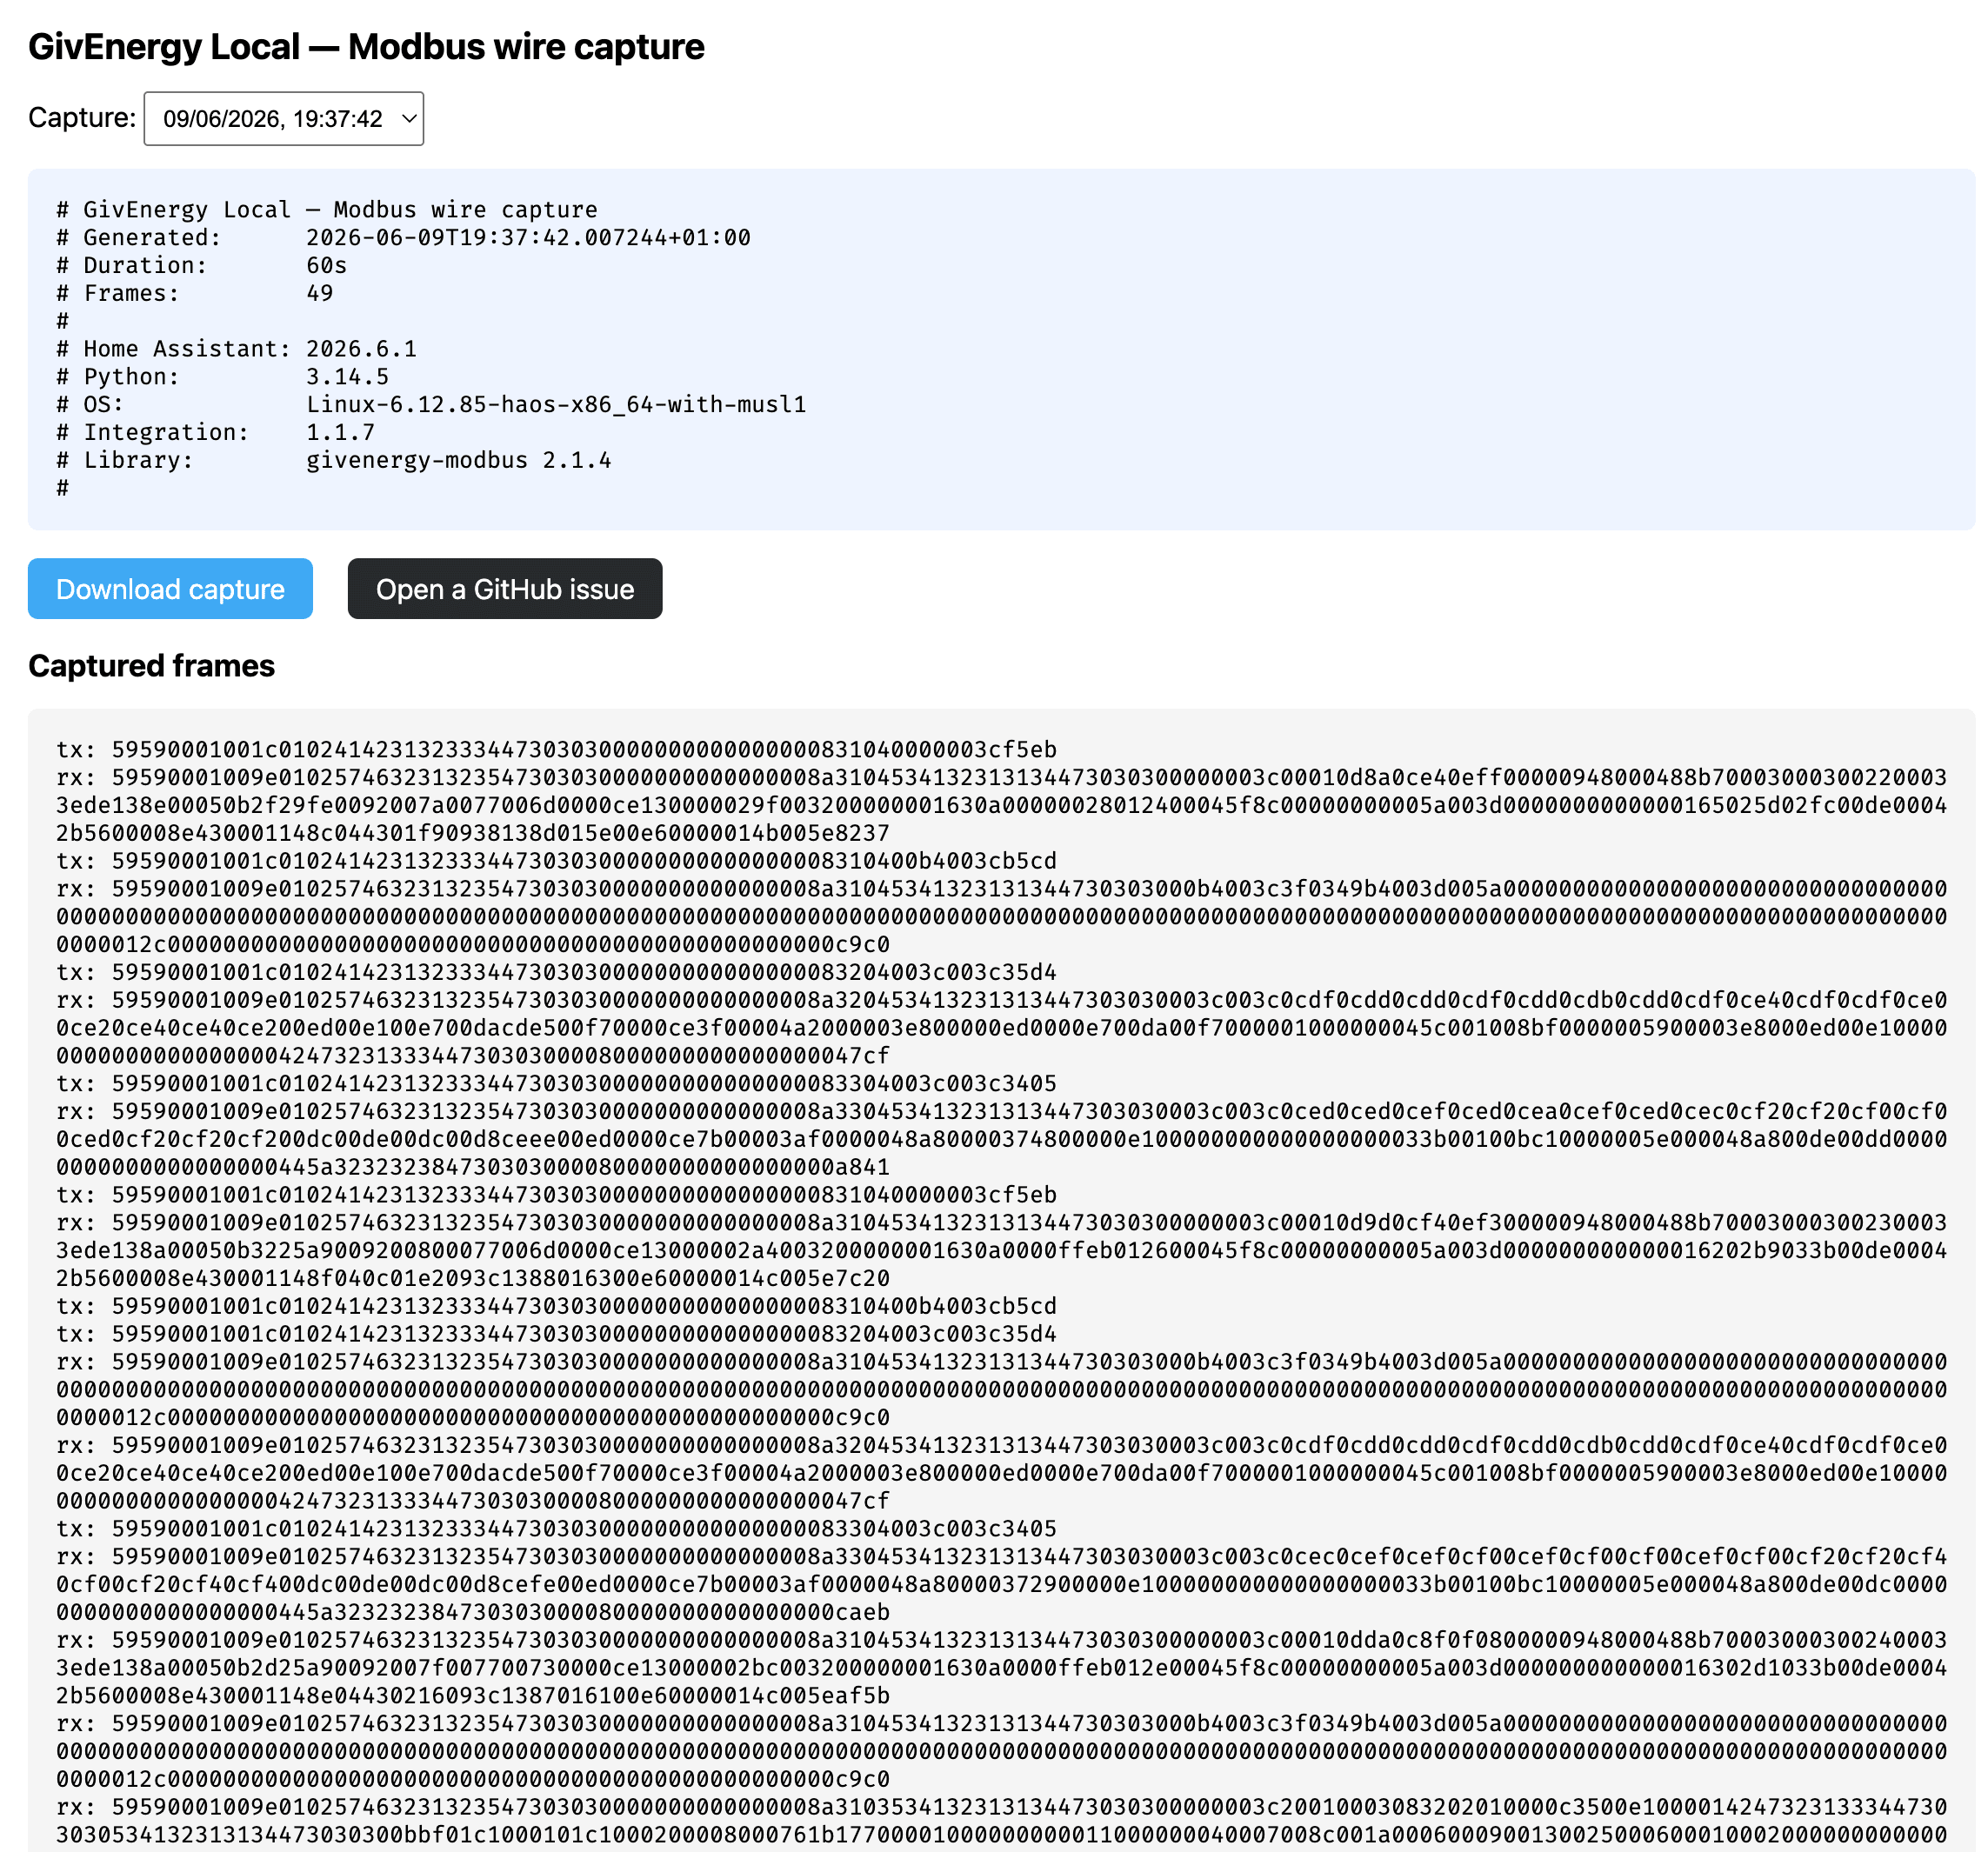
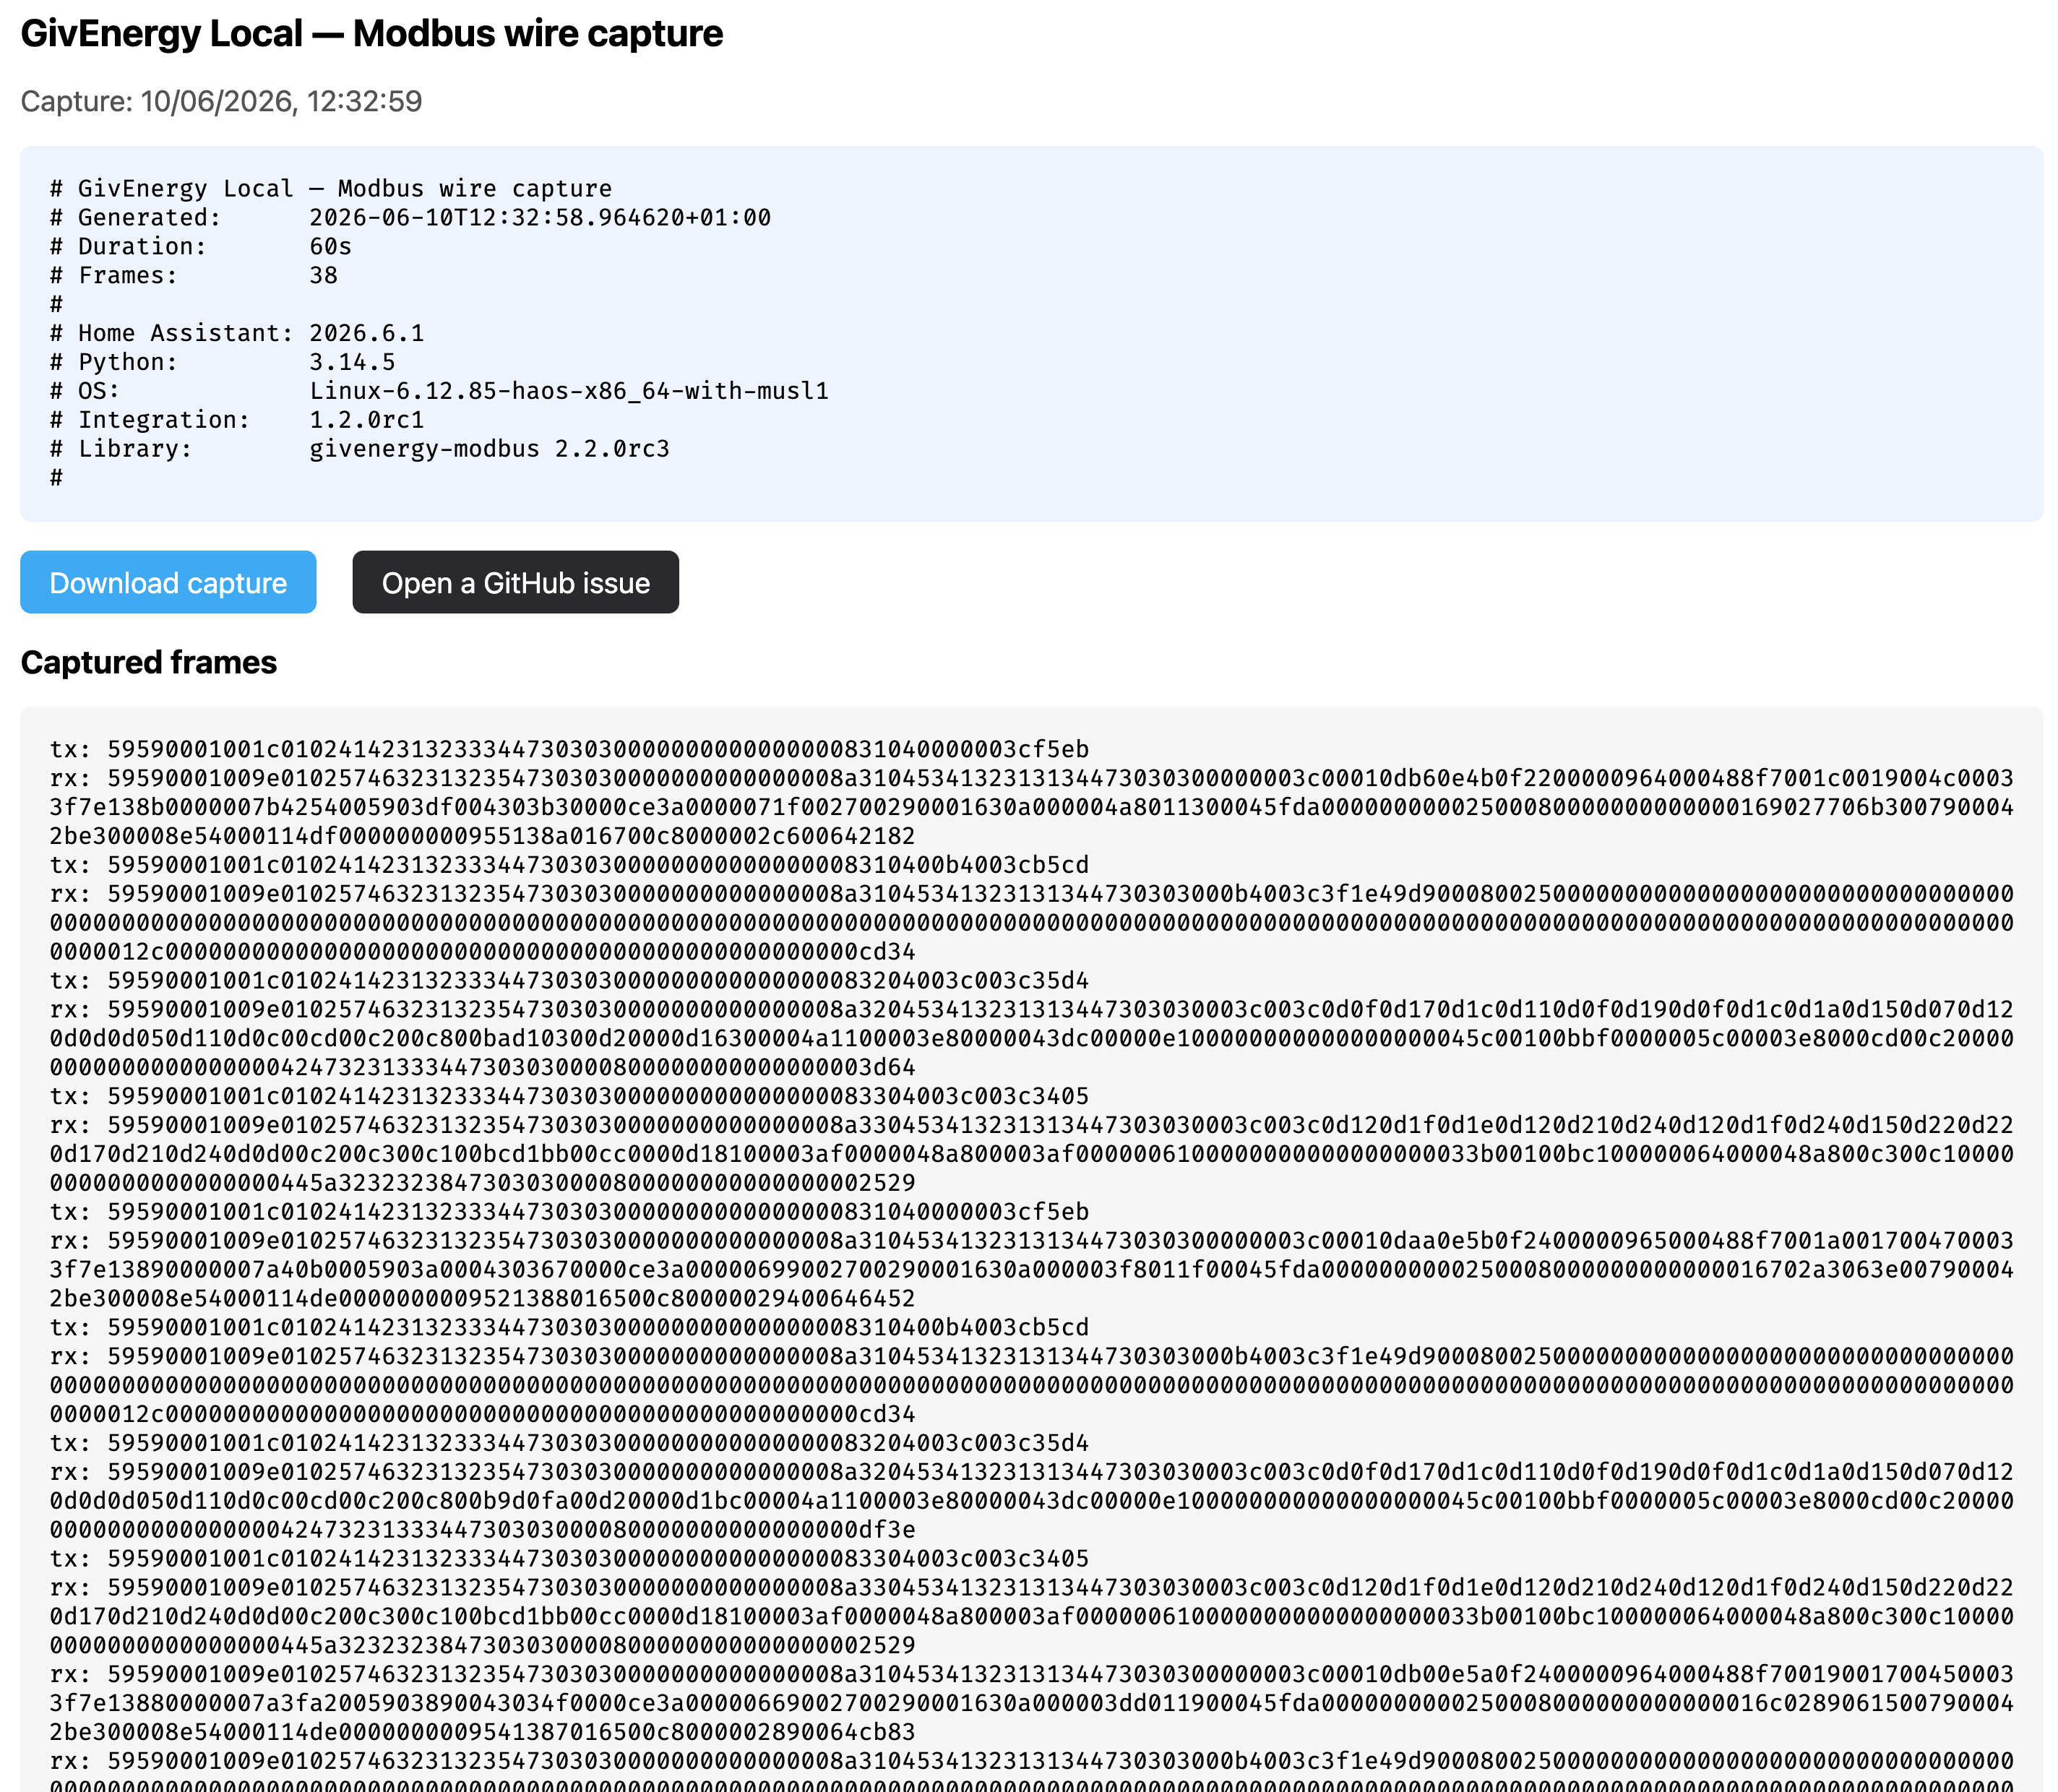
fix(capture): tighten capture access to admins + signed links; write files 0600 (#150)
Implements both defence-in-depth observations from the 2026-06-10 security review. Closes #149.

- Capture views now require an admin bearer token OR one of the integration's signed links; links are signed as HA's content user so the signer is deterministic, and the views compare the request's resolved refresh-token id against it (fails closed when unset — no None == None match).
- The landing page renders only the requested capture: the multi-capture switcher is removed, so a single notification link can't be escalated into enumerating the whole history.
- Capture files written 0600 (fchmod on the descriptor so an overwrite can't keep a broader mode); capture directory created 0700.

Docs and screenshots updated to the dropdown-free landing page. Each behaviour has a regression test.

Pull request: fix(capture): tighten capture access to admins + signed links; write files 0600
## What this does

Implements both defence-in-depth observations from the [2026-06-10 security review](https://github.com/dewet22/givenergy-hass/blob/main/docs/security-review-2026-06-10.md). Closes #149.

### Capture-view access: admin or signed link

`requires_auth = True` admits any authenticated HA user, and capture filenames are epoch-based (guessable within a narrow window), so a non-admin user could enumerate and download captures. The views now additionally require the caller to be an **admin**, or to have arrived via one of the integration's **signed links**.

The design detail worth reviewing: the notification link is signed inside a service handler, where `async_sign_path`'s fallback resolves to HA's **content user** — a read-only system user, so a naive `is_admin` gate would break the main flow. Instead, all capture links are now signed explicitly as the content user (`use_content_user=True`), and the views compare the request's resolved refresh-token id against that token. Because the auth middleware resolves a bearer-authenticated request to the *bearer's* token id (even when a junk `authSig` is appended), query-param sniffing is avoided and that bypass is closed — there's a regression test for it.

### Capture files written 0600
[…]

Changed region(s): [[0.0, 0.0, 0.9939, 1.0]]

diff --git a/custom_components/givenergy_local/http.py b/custom_components/givenergy_local/http.py
@@ -11,11 +11,21 @@ Auth note: HA's HTTP stack authenticates via a bearer header or a signed-request
 navigation from a notification would otherwise 401. Every link the user follows
 (the notification → landing URL, each dropdown entry, the download link) is
 therefore individually signed via :func:`async_sign_path` with a ~1h expiry.
+
+Access model (security review 2026-06-10): ``requires_auth = True`` alone admits
+*any* authenticated HA user, and capture filenames are epoch-guessable, so the
+views additionally require the caller to be an admin OR to have arrived via one
+of our signed links. All links are signed as HA's system "content user"
+(``use_content_user=True``), so a signed request resolves to that user's refresh
+token — :func:`_authorized` compares the request's resolved token id against it,
+which a junk ``authSig`` bolted onto a non-admin bearer request can't satisfy
+(the middleware resolves such a request to the bearer's own token).
 """
 
 from __future__ import annotations
 
 import html
+import os
 import re
 from datetime import timedelta
 from pathlib import Path
@@ -23,7 +33,8 @@ from urllib.parse import urlencode
 
 from aiohttp import web
 from homeassistant.components.http import HomeAssistantView  # type: ignore[attr-defined]
-from homeassistant.components.http.auth import async_sign_path
+from homeassistant.components.http.auth import STORAGE_KEY, async_sign_path
+from homeassistant.components.http.const import KEY_HASS_REFRESH_TOKEN_ID, KEY_HASS_USER
 from homeassistant.core import HomeAssistant
 
 from .const import DOMAIN
@@ -58,6 +69,56 @@ def capture_dir(hass: HomeAssistant) -> Path:
     return Path(hass.config.path(CAPTURE_DIR_NAME))
 
 
+def _sign(hass: HomeAssistant, path: str) -> str:
+    """Sign a capture path as the content user, so the signer is deterministic.
+
+    Signing inside a request handler would otherwise bind the link to the
+    *viewing* user's refresh token (whatever the ambient context is), which
+    `_authorized` couldn't distinguish from an arbitrary bearer. The content
+    user is HA's system identity for exactly this serve-signed-content case.
+    """
+    return async_sign_path(hass, path, _SIGNED_URL_TTL, use_content_user=True)
+
+
+def _authorized(hass: HomeAssistant, request: web.Request) -> bool:
+    """Admins, or requests that arrived via one of our signed links.
+
+    `requires_auth = True` already rejected anonymous callers; this tightens
+    the rest (security review 2026-06-10): a non-admin bearer token must not
+    be able to enumerate epoch-named captures. Signed links resolve to the
+    content user's refresh token — comparing the request's resolved token id
+    against it (rather than sniffing for an `authSig` query param) means a
+    junk signature appended to a bearer request still authenticates as the
+    bearer and is rejected here.
+    """
+    user = request.get(KEY_HASS_USER)
+    if user is not None and user.is_admin:
+        return True
+    # Guard both sides against None before comparing: HA sets the content-user
+    # token at http setup and token-less auth paths are admin-only today, so
+    # None == None isn't currently reachable — but a future auth path that
+    # leaves either unset must fail closed, not match on None.
+    token_id = request.get(KEY_HASS_REFRESH_TOKEN_ID)
+    signer_token_id = hass.data.get(STORAGE_KEY)
+    return token_id is not None and token_id == signer_token_id
+
+
+def write_capture(path: Path, content: str) -> None:
+    """Write a capture file readable by the HA user only (0600).
+
+    Capture contents are already redacted, but there's no reason to leave them
+    broader than needed on a multi-user host (security review 2026-06-10).
+    Runs in an executor — blocking I/O.
+    """
+    fd = os.open(path, os.O_WRONLY | os.O_CREAT | os.O_TRUNC, 0o600)
+    with os.fdopen(fd, "w") as handle:
+        # O_CREAT's mode applies only when the file is created; an overwrite
+        # (same-second epoch collision) would keep the existing file's broader
+        # mode, so enforce it on the open descriptor regardless.
+        os.fchmod(fd, 0o600)
+        handle.write(content)
+
+
 def landing_path(filename: str) -> str:
     return f"/api/{DOMAIN}/capture/{filename}"
 
@@ -83,21 +144,8 @@ def _split_header(content: str) -> tuple[str, str]:
     return "\n".join(lines[:cut]), "\n".join(lines[cut:])
 
 
-async def _list_captures(hass: HomeAssistant) -> list[str]:
-    """Capture filenames, newest first."""
-    directory = capture_dir(hass)
-
-    def _scan() -> list[str]:
-        if not directory.is_dir():
-            return []
-        names = [p.name for p in directory.iterdir() if CAPTURE_FILENAME_RE.match(p.name)]
-        return sorted(names, key=_epoch_from_filename, reverse=True)
-
-    return await hass.async_add_executor_job(_scan)
-
-
 class CaptureLandingView(HomeAssistantView):
-    """Landing page for a single capture: inspect, switch, download, file issue."""
+    """Landing page for a single capture: inspect, download, file issue."""
 
     url = "/api/" + DOMAIN + "/capture/{filename}"
     name = f"api:{DOMAIN}:capture"
@@ -107,6 +155,8 @@ class CaptureLandingView(HomeAssistantView):
         self.hass = hass
 
     async def get(self, request: web.Request, filename: str) -> web.StreamResponse:
+        if not _authorized(self.hass, request):
+            return web.Response(status=403)
         if not CAPTURE_FILENAME_RE.match(filename):
             return web.Response(status=404)
         hass = self.hass
@@ -115,20 +165,13 @@ class CaptureLandingView(HomeAssistantView):
         if content is None:
             return web.Response(status=404)
 
-        captures = await _list_captures(hass)
+        # The page shows exactly the one capture the caller was granted. A
+        # signed link is a path-bound capability for a single file, so there's
+        # no multi-capture switcher to mint (which would escalate one link into
+        # enumerate-everything) — each capture is reached via its own
+        # notification link.
         header, body = _split_header(content)
-
-        options = []
-        for name in captures:
-            signed = async_sign_path(hass, landing_path(name), _SIGNED_URL_TTL)
-            selected = " selected" if name == filename else ""
-            options.append(
-                f'<option value="{html.escape(signed, quote=True)}" '
-                f'data-epoch="{_epoch_from_filename(name)}"{selected}>'
-                f"{html.escape(name)}</option>"
-            )
-
-        download_url = async_sign_path(hass, download_path(filename), _SIGNED_URL_TTL)
+        download_url = _sign(hass, download_path(filename))
         github_url = (
             _GITHUB_ISSUE_URL
             + "?"
@@ -136,7 +179,8 @@ class CaptureLandingView(HomeAssistantView):
         )
 
         page = _LANDING_TEMPLATE.format(
-            options="\n".join(options),
+            filename=html.escape(filename),
+            epoch=_epoch_from_filename(filename),
             header=html.escape(header),
             body=html.escape(body),
             download_url=html.escape(download_url, quote=True),
@@ -156,6 +200,8 @@ class CaptureDownloadView(HomeAssistantView):
         self.hass = hass
 
     async def get(self, request: web.Request, filename: str) -> web.StreamResponse:
+        if not _authorized(self.hass, request):
+            return web.Response(status=403)
         if not CAPTURE_FILENAME_RE.match(filename):
             return web.Response(status=404)
         hass = self.hass
@@ -184,7 +230,7 @@ def build_capture_notification_url(hass: HomeAssistant, filename: str) -> str:
     whatever origin the user is actually on — works correctly whether HA is
     accessed directly or via a reverse proxy.
     """
-    return async_sign_path(hass, landing_path(filename), _SIGNED_URL_TTL)
+    return _sign(hass, landing_path(filename))
 
 
 _LANDING_TEMPLATE = """\
@@ -204,19 +250,13 @@ _LANDING_TEMPLATE = """\
                 background: #03a9f4; color: #fff; text-decoration: none;
                 border-radius: 6px; }}
   .actions a.github {{ background: #24292f; }}
-  select {{ padding: 0.4rem; }}
+  .capture {{ color: #555; }}
 </style>
 </head>
 <body>
 <h1>GivEnergy Local — Modbus wire capture</h1>
 
-<form>
-  <label>Capture:
-    <select id="capture-select" onchange="window.location = this.value;">
-{options}
-    </select>
-  </label>
-</form>
+<p class="capture">Capture: <span id="capture-when" data-epoch="{epoch}">{filename}</span></p>
 
 <pre class="env">{header}</pre>
 
@@ -229,11 +269,10 @@ _LANDING_TEMPLATE = """\
 <pre>{body}</pre>
 
 <script>
-  // Render each capture's epoch in the viewer's locale; the value stays a signed URL.
-  for (const opt of document.querySelectorAll('#capture-select option')) {{
-    const epoch = Number(opt.dataset.epoch);
-    if (epoch) opt.textContent = new Date(epoch * 1000).toLocaleString();
-  }}
+  // Render the capture's epoch in the viewer's locale (falls back to the filename).
+  const when = document.getElementById('capture-when');
+  const epoch = Number(when.dataset.epoch);
+  if (epoch) when.textContent = new Date(epoch * 1000).toLocaleString();
 </script>
 </body>
 </html>

diff --git a/tests/test_capture.py b/tests/test_capture.py
@@ -8,6 +8,8 @@ download; both reject anything outside the strict capture-filename allowlist.
 
 from __future__ import annotations
 
+import re
+
 import pytest
 from homeassistant.setup import async_setup_component
 from homeassistant.util import dt as dt_util
@@ -172,7 +174,7 @@ async def test_landing_view_renders_page(hass, hass_client, captured):
     assert resp.status == 200
     text = await resp.text()
     assert "GivEnergy Local — Modbus wire capture" in text
-    assert captured in text  # dropdown option for this capture
+    assert captured in text  # capture caption names this file
     assert "dead" in text and "beef" in text  # frames embedded inline
     assert "/issues/new" in text  # GitHub link
 
@@ -214,3 +216,113 @@ async def test_unsigned_download_without_auth_is_rejected(hass, hass_client_no_a
     client = await hass_client_no_auth()
     resp = await client.get(f"/api/{DOMAIN}/capture/{captured}/download")
     assert resp.status == 401
+
+
+# ---------------------------------------------------------------------------
+# Access hardening (security review 2026-06-10, issue #149)
+# ---------------------------------------------------------------------------
+
+
+async def test_non_admin_bearer_is_rejected(
+    hass, hass_client, hass_read_only_access_token, captured
+):
+    """A non-admin bearer token must not be able to read captures directly —
+    epoch-based filenames are guessable, so plain `requires_auth` would let any
+    authenticated user enumerate them."""
+    client = await hass_client(hass_read_only_access_token)
+    resp = await client.get(f"/api/{DOMAIN}/capture/{captured}")
+    assert resp.status == 403
+    resp = await client.get(f"/api/{DOMAIN}/capture/{captured}/download")
+    assert resp.status == 403
+
+
+async def test_non_admin_with_junk_authsig_is_rejected(
+    hass, hass_client, hass_read_only_access_token, captured
+):
+    """A junk authSig appended to a non-admin bearer request must not pass the
+    gate — the middleware authenticates via the bearer header, so the request
+    resolves to the bearer's own token, not the content user's."""
+    client = await hass_client(hass_read_only_access_token)
+    resp = await client.get(f"/api/{DOMAIN}/capture/{captured}?authSig=junk")
+    assert resp.status == 403
+
+
+async def test_notification_link_works_without_auth(
+    hass, hass_client_no_auth, mock_client, capture_setup
+):
+    """End-to-end: the URL in the persistent notification opens the landing page
+    with no bearer token at all (browser navigation) — the signed link is the
+    capability."""
+    mock_client.capture_frames.side_effect = _make_capture_sink(["TX: dead"])
+    await hass.services.async_call(DOMAIN, SERVICE_CAPTURE_FRAMES, {"duration": 10}, blocking=True)
+    notifications = hass.data.get("persistent_notification", {})
+    note = next(n for nid, n in notifications.items() if "givenergy_capture_" in nid)
+    href = re.search(r'href="([^"]+)"', note["message"]).group(1)
+    client = await hass_client_no_auth()
+    resp = await client.get(href)
+    assert resp.status == 200
+    assert "GivEnergy Local — Modbus wire capture" in await resp.text()
+
+
+async def test_capture_written_private(hass, mock_client, capture_setup):
+    """Capture files land 0600 and the capture dir 0700 — no reason to be
+    readable beyond the HA user on a multi-user host."""
+    mock_client.capture_frames.side_effect = _make_capture_sink(["TX: 0102"])
+    await hass.services.async_call(DOMAIN, SERVICE_CAPTURE_FRAMES, {"duration": 10}, blocking=True)
+    directory = capture_dir(hass)
+    (path,) = list(directory.glob("capture_givenergy_*.txt"))
+    assert path.stat().st_mode & 0o777 == 0o600
+    assert directory.stat().st_mode & 0o777 == 0o700
+
+
+async def test_authorized_fails_closed_when_token_ids_absent(hass):
+    """None must never satisfy the signer comparison: a request with no resolved
+    token id — and/or no content-user token in hass.data — fails closed rather
+    than matching None == None (review feedback on #150)."""
+    from homeassistant.components.http.const import KEY_HASS_REFRESH_TOKEN_ID
+
+    from custom_components.givenergy_local.http import _authorized
+
+    # Bare hass: http not set up, so no content-user token exists either side.
+    assert _authorized(hass, {}) is False
+    # Token id present but no signer token registered: still rejected.
+    assert _authorized(hass, {KEY_HASS_REFRESH_TOKEN_ID: "some-token"}) is False
+
+
+async def test_landing_page_shows_only_the_requested_capture(
+    hass, hass_client_no_auth, hass_client, captured
+):
+    """The landing page renders exactly the one capture it was asked for and
+    never names the rest of the history — there's no switcher to enumerate
+    from, whether reached via a signed link or an admin bearer (review on
+    #150). Each capture is reached via its own notification link."""
+    other = "capture_givenergy_1700000000.txt"
+    (capture_dir(hass) / other).write_text("# GivEnergy\nTX: 99\n")
+
+    signed = build_capture_notification_url(hass, captured)
+    client = await hass_client_no_auth()
+    resp = await client.get(signed)
+    assert resp.status == 200
+    text = await resp.text()
+    assert captured in text  # the requested capture
+    assert other not in text  # no enumeration of history
+
+    admin = await hass_client()
+    resp = await admin.get(f"/api/{DOMAIN}/capture/{captured}")
+    text = await resp.text()
+    assert captured in text
+    assert other not in text  # admins don't get a switcher either
+
+
+def test_write_capture_tightens_existing_file_mode(tmp_path):
+    """O_CREAT's mode applies only on creation: overwriting a pre-existing
+    broader-mode file (same-second epoch collision) must still end up 0600
+    (review on #150)."""
+    from custom_components.givenergy_local.http import write_capture
+
+    path = tmp_path / "capture_givenergy_1700000000.txt"
+    path.write_text("old")
+    path.chmod(0o644)
+    write_capture(path, "new")
+    assert path.read_text() == "new"
+    assert path.stat().st_mode & 0o777 == 0o600

diff --git a/custom_components/givenergy_local/__init__.py b/custom_components/givenergy_local/__init__.py
@@ -55,6 +55,7 @@ from .http import (
     CaptureLandingView,
     build_capture_notification_url,
     capture_dir,
+    write_capture,
 )
 
 _LOGGER = logging.getLogger(__name__)
@@ -309,7 +310,7 @@ async def _async_register_capture_http(hass: HomeAssistant) -> None:
     Component-scope (run once from :func:`async_setup`): the views are global and
     the directory is shared across config entries, so neither belongs per-entry.
     """
-    await hass.async_add_executor_job(lambda: capture_dir(hass).mkdir(exist_ok=True))
+    await hass.async_add_executor_job(lambda: capture_dir(hass).mkdir(mode=0o700, exist_ok=True))
     if hass.http is None:
         # No web server (e.g. a minimal test harness) — nothing to serve from.
         return
@@ -602,8 +603,10 @@ async def async_setup_entry(hass: HomeAssistant, entry: ConfigEntry) -> bool:
                 epoch = int(dt_util.utcnow().timestamp())
                 filename = f"capture_givenergy_{epoch}.txt"
                 directory = capture_dir(hass)
-                await hass.async_add_executor_job(partial(directory.mkdir, exist_ok=True))
-                await hass.async_add_executor_job((directory / filename).write_text, content)
+                await hass.async_add_executor_job(
+                    partial(directory.mkdir, mode=0o700, exist_ok=True)
+                )
+                await hass.async_add_executor_job(write_capture, directory / filename, content)
 
                 landing_url = build_capture_notification_url(hass, filename)
                 _LOGGER.info(

diff --git a/README.md b/README.md
@@ -43,6 +43,10 @@ Duration: 60
 
 This records a redacted copy of the raw Modbus traffic (serial numbers zeroed), saves it to `<config>/givenergy_local_captures/`, and sends a persistent notification linking to a landing page where you can inspect the capture, download the file, or open a pre-filled GitHub issue. Attach the file to the issue along with your inverter model and serial prefix.
 
+![Persistent notification when a capture completes](docs/capture-notification.png)
+
+Following the link opens the capture's landing page:
+
 ![Capture landing page — inspect, download, or file an issue](docs/capture-landing.png)
 
 If you don't yet have the integration installed, [givenergy-cli](https://github.com/dewet22/givenergy-cli) can produce a structured register dump instead:

diff --git a/docs/security-review-2026-06-10.md b/docs/security-review-2026-06-10.md
@@ -56,6 +56,8 @@ Pattern scan for committed credentials (API keys, tokens, passwords) found nothi
 
 2. **Capture files are written with default permissions (0644).** Other local OS users on the HA host could read them — the same trust boundary as the rest of the HA config directory, so no worse than the surrounding system.
 
+> **Update (2026-06-10):** both observations have since been addressed (tracked in [#149](https://github.com/dewet22/givenergy-hass/issues/149)): the capture views now require an admin bearer token or one of the integration's signed links, and capture files/directory are written `0600`/`0700`.
+
 ## Conclusion
 
 A clean, security-conscious codebase. Recent commit history (SHA-pinning actions, `persist-credentials: false`, safe notification-link handling) shows active attention to security, and it is reflected consistently throughout the code.